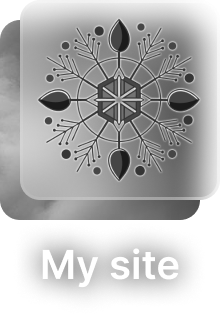
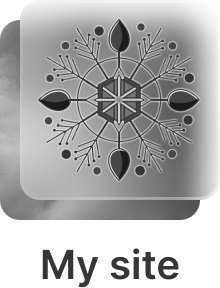
18.

diff --git a/README.md b/README.md
@@ -8,13 +8,13 @@
 
 <div align="center">
     <a href="https://vk.com/id199922555" target="_blank"><img src="https://github.com/alinavdovichenko/alinavdovichenko/blob/main/assets/vk.png" 
-    alt="ALT-VK" width="40" height="53" /></a>
+    alt="ALT-VK"  height="50" width="auto"/></a>
     <img src="https://github.com/alinavdovichenko/alinavdovichenko/blob/main/assets/img.png" 
     alt="ALT" width="40" height="40" />
     <a href="https://alinavdovichenko.ru/" target="_blank"><img src="https://github.com/alinavdovichenko/alinavdovichenko/blob/main/assets/MySite.png" 
-    alt="ALT-MySite" width="40" height="53" /></a>
+    alt="ALT-MySite" height="50" width="auto" /></a>
     <img src="https://github.com/alinavdovichenko/alinavdovichenko/blob/main/assets/img.png" 
     alt="ALT" width="40" height="40" />
     <a href="https://t.me/AlinaVdovichenko" target="_blank"><img src="https://github.com/alinavdovichenko/alinavdovichenko/blob/main/assets/telegram.png" 
-    alt="ALT-TELEGRAM" width="40" height="53" /></a>
+    alt="ALT-TELEGRAM" height="50" width="auto" /></a>
 </div>
